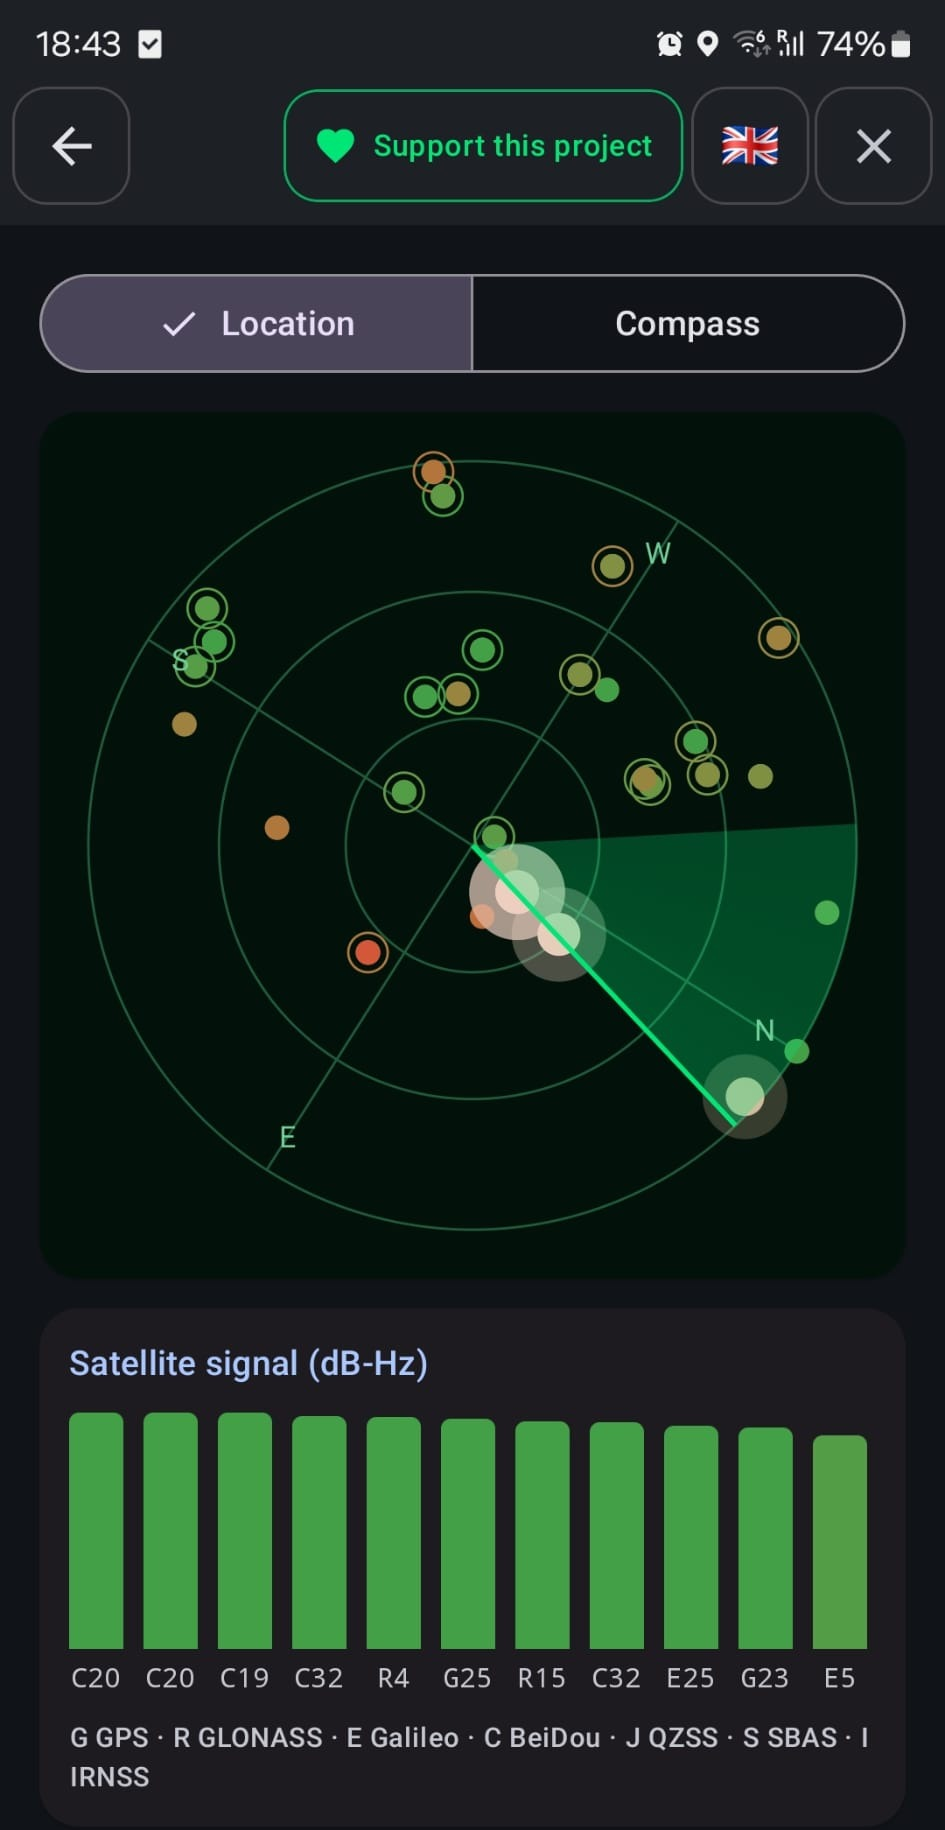
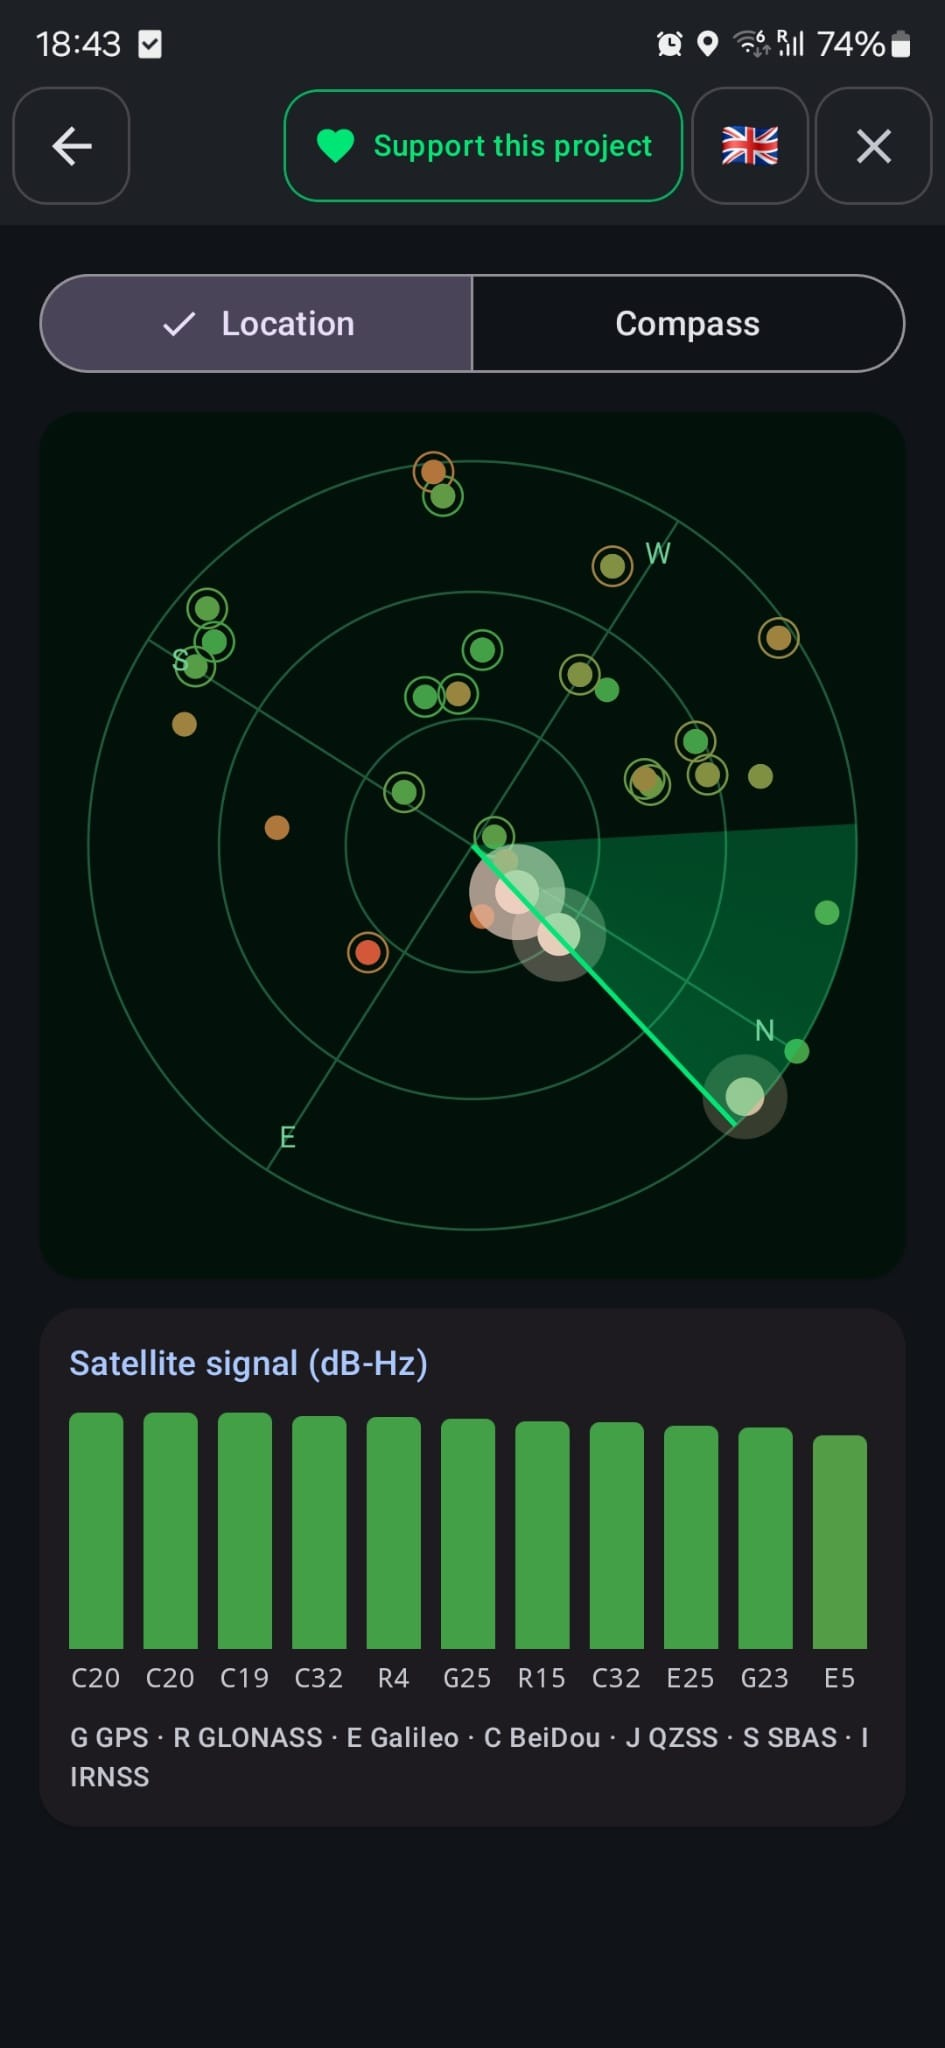
LabDroid page: larger screenshots (260px), full-size GPS radar image

diff --git a/labdroid/index.html b/labdroid/index.html
@@ -148,7 +148,7 @@
       gap: 16px; flex-wrap: wrap;
     }
     .shot-row img {
-      width: 160px; height: auto; display: block; flex: none;
+      width: 260px; height: auto; display: block; flex: none;
       border-radius: 16px; box-shadow: 0 16px 40px rgba(0,0,0,0.45);
     }
 
